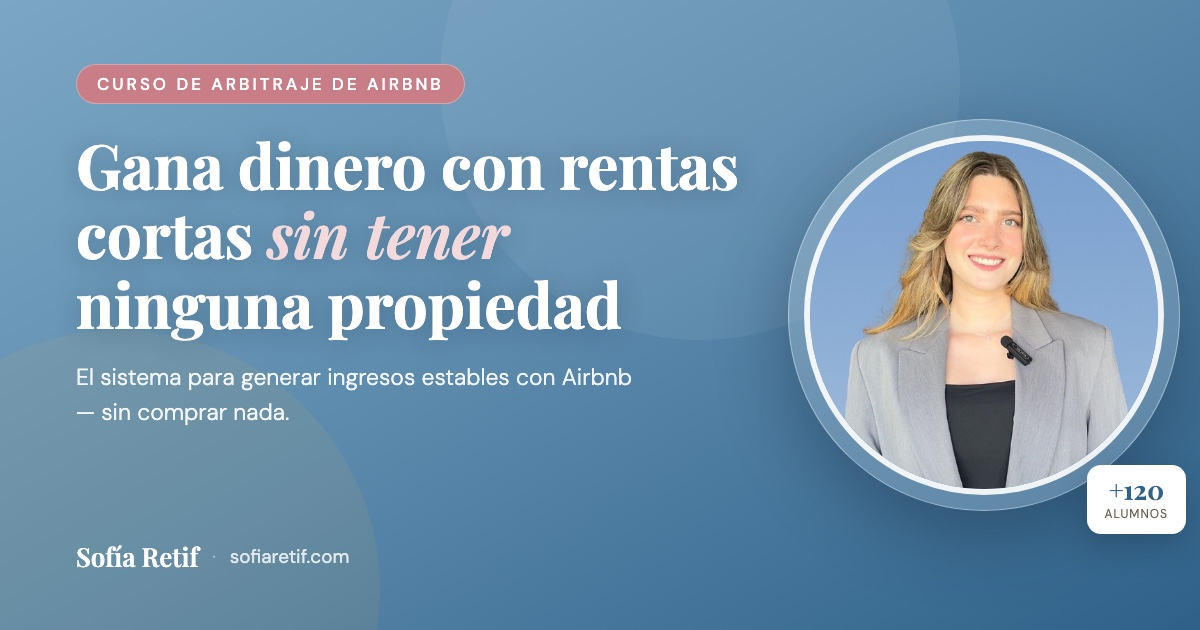
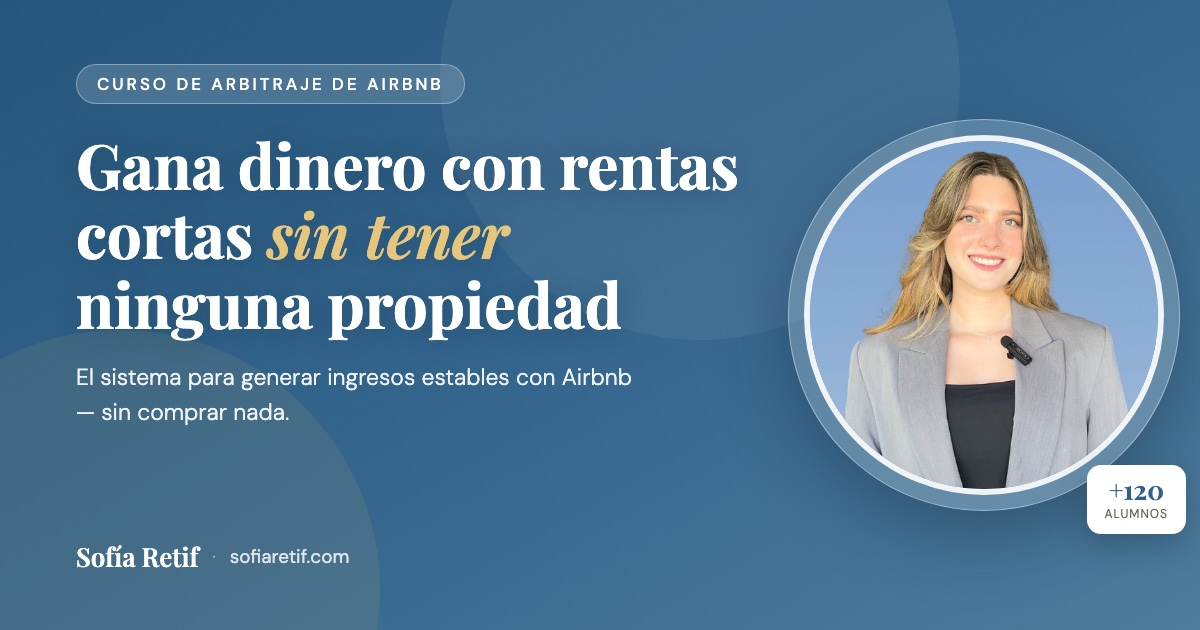
Hero premium: fondo azul profundo, resaltado dorado y eyebrow glass
- Gradiente del hero a azul profundo para mayor contraste y look premium
- Palabras resaltadas en dorado champagne (#E6C57C); rosa solo para ofertas
- Eyebrow 'Curso práctico' como pill translúcido (glass), ya no rosa
- og-image regenerada con el mismo estilo (fondo profundo + dorado)
- Elimina comparacion.html (decisión tomada)

diff --git a/og-source.html b/og-source.html
@@ -8,7 +8,7 @@
   html,body { width:1200px; height:630px; }
   .card {
     width:1200px; height:630px; position:relative; overflow:hidden;
-    background:linear-gradient(150deg,#7BA7C4 0%,#5C8AAD 48%,#2F6188 100%);
+    background:linear-gradient(150deg,#27567C 0%,#33648C 48%,#4E7C9C 100%);
     font-family:'DM Sans',sans-serif; display:flex;
   }
   .c1 { position:absolute; top:-180px; right:240px; width:520px; height:520px; border-radius:50%; background:rgba(255,255,255,0.06); }
@@ -18,15 +18,15 @@
     display:flex; flex-direction:column; justify-content:space-between;
   }
   .eyebrow {
-    display:inline-block; align-self:flex-start; background:#C87D87; color:#fff;
+    display:inline-block; align-self:flex-start; background:rgba(255,255,255,0.15); color:#fff;
     font-size:17px; font-weight:500; letter-spacing:3px; text-transform:uppercase;
-    padding:8px 20px; border-radius:99px; border:1px solid rgba(255,255,255,0.3);
+    padding:8px 20px; border-radius:99px; border:1px solid rgba(255,255,255,0.35);
   }
   h1 {
     font-family:'Playfair Display',serif; font-weight:700; font-size:62px; line-height:1.12;
     color:#fff; margin-top:26px; text-shadow:0 2px 24px rgba(20,40,60,0.25);
   }
-  h1 em { font-style:italic; color:#F3D9DC; }
+  h1 em { font-style:italic; color:#E6C57C; }
   .sub { margin-top:22px; font-size:23px; font-weight:300; color:rgba(255,255,255,0.92); line-height:1.5; max-width:560px; }
   .who { display:flex; align-items:center; gap:14px; margin-top:30px; }
   .who .name { font-family:'Playfair Display',serif; font-size:26px; font-weight:600; color:#fff; }

diff --git a/index.html b/index.html
@@ -59,7 +59,7 @@
   /* HERO */
   .hero {
     min-height: 100vh;
-    background: linear-gradient(160deg, #7BA7C4 0%, #9BBDD6 40%, #B8D4E8 100%);
+    background: linear-gradient(155deg, #27567C 0%, #33648C 45%, #4E7C9C 100%);
     display: grid;
     grid-template-columns: 1fr 1fr;
     align-items: center;
@@ -95,8 +95,9 @@
   }
   .hero-eyebrow {
     display: inline-block;
-    background: #C87D87;
-    color: white;
+    background: rgba(255,255,255,0.14);
+    backdrop-filter: blur(6px);
+    color: #fff;
     font-size: 12px;
     font-weight: 500;
     letter-spacing: 2px;
@@ -104,7 +105,7 @@
     padding: 6px 16px;
     border-radius: 99px;
     margin-bottom: 1.5rem;
-    border: 1px solid rgba(255,255,255,0.3);
+    border: 1px solid rgba(255,255,255,0.35);
   }
   .hero h1 {
     font-family: 'Playfair Display', serif;
@@ -116,7 +117,7 @@
   }
   .hero h1 em {
     font-style: italic;
-    color: #C87D87;
+    color: #E6C57C;
   }
   .hero-sub {
     font-size: 17px;
